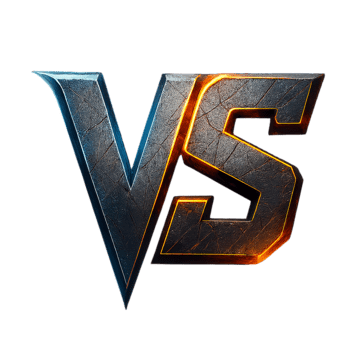
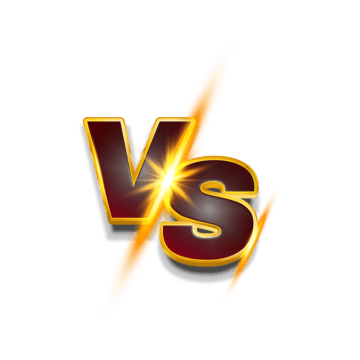
PES_2026_WEB_v1_10_6
Không tìm thấy file CHANGELOG*.md trong file nén.

diff --git a/static/style.css b/static/style.css
@@ -3348,3 +3348,74 @@ html[data-theme="light"] .admin-switch-track{background:#cbd5df;border-color:#b9
 @media(max-width:640px){
   .room-player-heading-plain{padding:4px 0 10px;gap:6px}
 }
+
+/* ===== Random dice button polish v1.10.6 ===== */
+.room-center-random-trigger{
+  max-width:244px!important;
+  gap:9px!important;
+  padding:16px 16px 17px!important;
+  border-radius:18px!important;
+  border:1px solid rgba(245,190,39,.30)!important;
+  background:linear-gradient(180deg,rgba(245,190,39,.075),rgba(255,255,255,.018))!important;
+  box-shadow:0 12px 30px rgba(0,0,0,.22)!important;
+  overflow:hidden;
+}
+.room-center-random-trigger:not(.disabled):hover{
+  border-color:rgba(245,190,39,.62)!important;
+  background:linear-gradient(180deg,rgba(245,190,39,.14),rgba(245,190,39,.035))!important;
+  transform:translateY(-2px)!important;
+}
+.room-center-random-trigger:not(.disabled):active{
+  transform:translateY(0) scale(.985)!important;
+}
+.room-center-random-image{
+  width:92px!important;
+  height:92px!important;
+  margin:0 auto 2px!important;
+  object-fit:contain!important;
+  background:transparent!important;
+  border:0!important;
+  opacity:1!important;
+  filter:drop-shadow(0 10px 18px rgba(0,0,0,.34))!important;
+  transition:transform .18s ease,filter .18s ease!important;
+}
+.room-center-random-trigger:not(.disabled):hover .room-center-random-image{
+  transform:translateY(-2px) rotate(-4deg) scale(1.045)!important;
+  filter:drop-shadow(0 13px 22px rgba(0,0,0,.42))!important;
+}
+.room-random-button-label{
+  width:100%;
+  margin:0!important;
+  padding:10px 12px!important;
+  border-radius:11px!important;
+  background:linear-gradient(180deg,#f6cf6f,#d9a62f)!important;
+  color:#171006!important;
+  font-size:18px!important;
+  font-weight:950!important;
+  line-height:1.1!important;
+  box-shadow:inset 0 1px 0 rgba(255,255,255,.52),0 7px 15px rgba(0,0,0,.18)!important;
+}
+.room-center-random-sub{
+  max-width:210px!important;
+  margin-top:1px!important;
+  font-size:12px!important;
+  line-height:1.4!important;
+  color:#aeb9c9!important;
+}
+.room-center-random-trigger.disabled{
+  border-color:rgba(255,255,255,.07)!important;
+  background:rgba(255,255,255,.022)!important;
+  box-shadow:none!important;
+  opacity:.65!important;
+}
+.room-center-random-trigger.disabled .room-random-button-label{
+  background:rgba(255,255,255,.10)!important;
+  color:#c5cfdd!important;
+  box-shadow:none!important;
+}
+@media(max-width:640px){
+  .room-center-random-trigger{max-width:220px!important;padding:13px 13px 14px!important}
+  .room-center-random-image{width:76px!important;height:76px!important}
+  .room-random-button-label{font-size:16px!important;padding:9px 10px!important}
+  .room-center-random-sub{font-size:11px!important;max-width:185px!important}
+}

diff --git a/templates/room_detail.html b/templates/room_detail.html
@@ -48,14 +48,14 @@
                     <form class="room-center-random-form" method="post" action="{{ url_for('room_random_teams', room_id=room.id) }}" onsubmit="const b=this.querySelector('button'); b.disabled=true; b.classList.add('loading');">
                         <input type="hidden" name="match_mode" value="ranked">
                         <button class="room-center-random-trigger" type="submit">
-                            <img class="room-center-random-image" src="{{ url_for('static', filename='Xucxac.png') }}" alt="Xúc xắc quay random đội" loading="eager">
+                            <img class="room-center-random-image" src="{{ url_for('static', filename='dice-clean.svg') }}" alt="Xúc xắc quay random đội" loading="eager">
                             <span class="room-center-random-title room-random-button-label">QUAY RANDOM ĐỘI</span>
                             <span class="room-center-random-sub">Nhấn để đổi đội ngẫu nhiên cho cả hai bên</span>
                         </button>
                     </form>
                     {% else %}
                     <div class="room-center-random-trigger disabled">
-                        <img class="room-center-random-image" src="{{ url_for('static', filename='Xucxac.png') }}" alt="Xúc xắc quay random đội" loading="eager">
+                        <img class="room-center-random-image" src="{{ url_for('static', filename='dice-clean.svg') }}" alt="Xúc xắc quay random đội" loading="eager">
                         <span class="room-center-random-title room-random-button-label">QUAY RANDOM ĐỘI</span>
                         <span class="room-center-random-sub">{{ "Khách chưa sẵn sàng" if not room.guest_ready else "Đang chờ chủ phòng quay đội" }}</span>
                     </div>

diff --git a/app.py b/app.py
@@ -34,7 +34,7 @@ from supabase import create_client
 load_dotenv()
 
 APP_NAME = "PES 2026"
-APP_VERSION = "V1.10.5"
+APP_VERSION = "V1.10.6"
 DEFAULT_POINTS = 1000
 DEVICE_COOKIE_NAME = "rankzone_device_id"
 COOLDOWN_MINUTES = 3

diff --git a/Log.md b/Log.md
@@ -1,8 +1,11 @@
 # Log
 
-## V1.10.5
+## V1.10.6
 
-- Bỏ hoàn toàn wrapper dạng khung quanh avatar, tên người chơi và Rank trong Phòng đấu.
-- Thay class cũ bằng vùng hiển thị phẳng, không nền, không viền, không bo góc, không đổ bóng.
-- Giữ tên người chơi căn giữa và Rank nằm ngay bên dưới.
-- Cập nhật phiên bản thành `V1.10.5`.
+- Thay ảnh xúc xắc cũ bằng icon xúc xắc SVG nền trong suốt, nét sạch và đồng bộ giao diện.
+- Bỏ hoàn toàn khung ảnh vuông thô quanh xúc xắc.
+- Gộp icon, chữ `QUAY RANDOM ĐỘI` và mô tả vào cùng một nút bấm.
+- Tăng vùng bấm và thêm phản hồi hover/nhấn rõ ràng cho chủ phòng.
+- Giảm kích thước icon và khoảng cách trên điện thoại.
+- Giữ nguyên logic quay đội, trạng thái phòng và dữ liệu Supabase.
+- Cập nhật phiên bản ứng dụng thành `V1.10.6`.